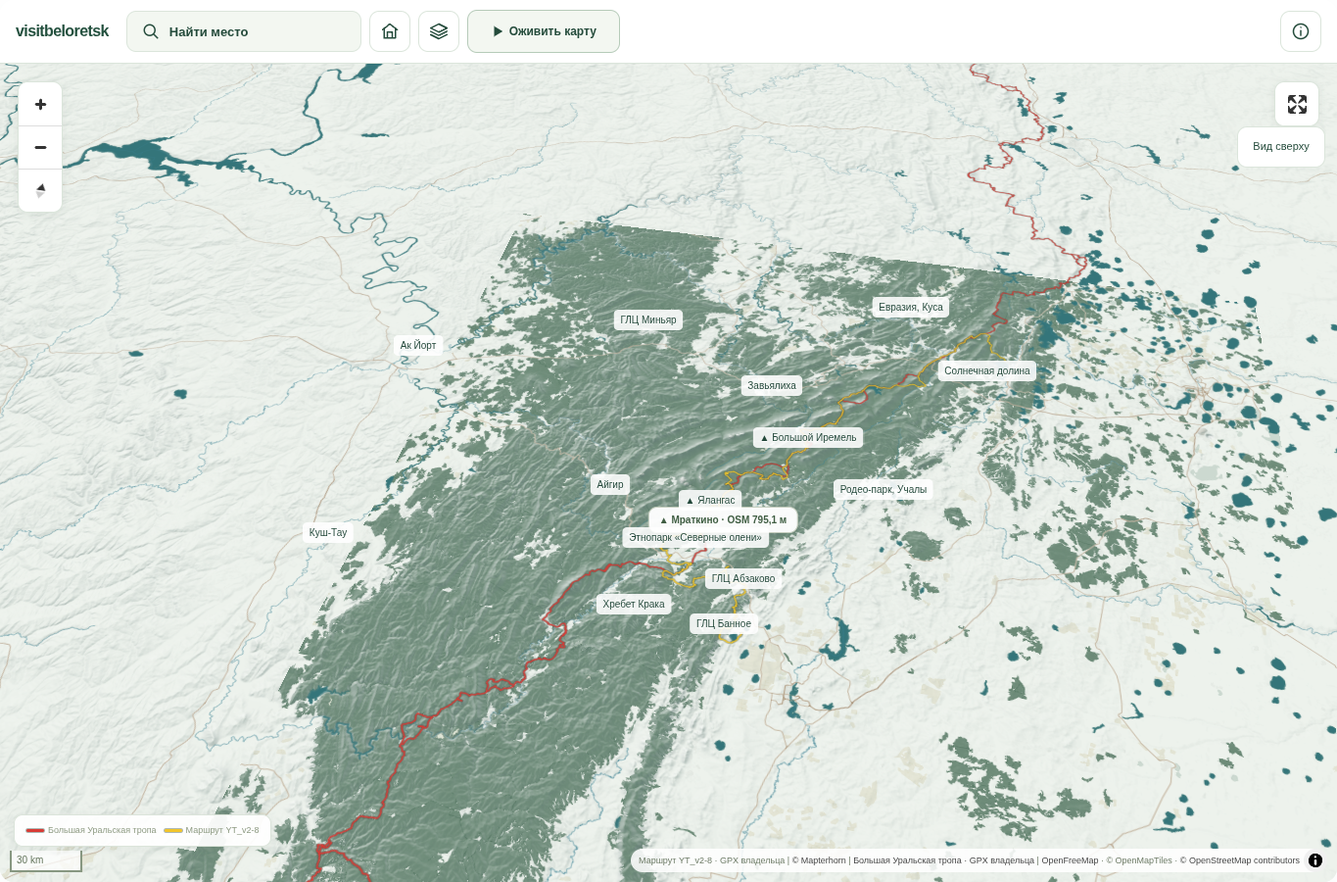
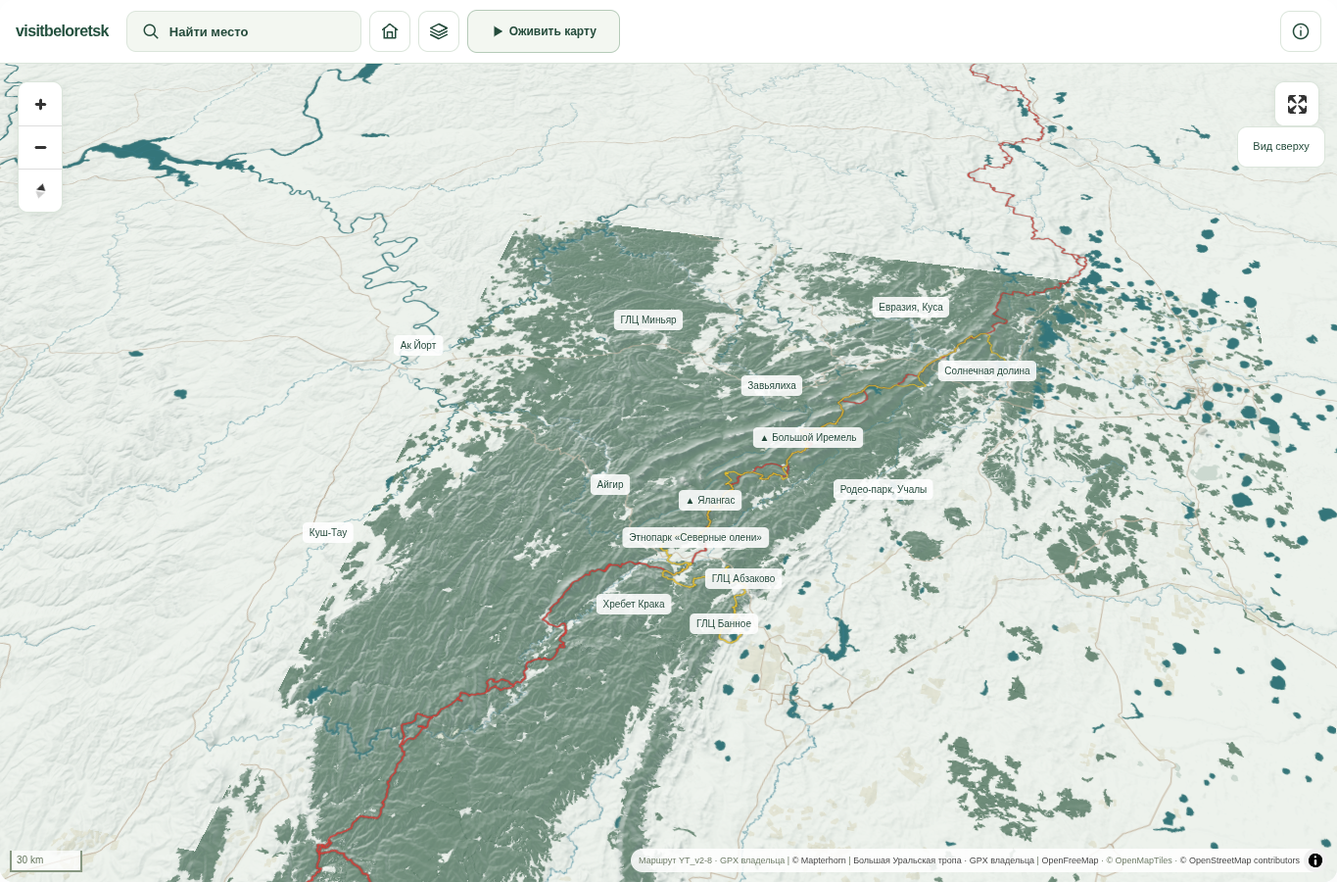
Reveal route names on click and resort labels at close zoom

Changed region(s): [[0.0, 0.9022, 0.2154, 0.9644], [0.4615, 0.56, 0.6154, 0.6222]]

diff --git a/src/region/controller.js b/src/region/controller.js
@@ -3,7 +3,7 @@ import {EMPTY} from '../map-data.js';
 import {resortFacilities} from './style.js';
 import {HikingController,hikingArea} from './hiking.js';
 import {SkiAreaController} from './ski-area.js';
-import {decoratePistes,CATEGORIES} from './piste-catalog.js';
+import {decoratePistes} from './piste-catalog.js';
 import {visibleAreas} from './viewport.js';
 import {IntegrationBridge,readURLState} from './integration.js';
 import {LandscapeController} from '../landscape/controller.js';
@@ -13,8 +13,7 @@ import {placeVisible} from './passport.js';
 import {renderPassportContent} from './passport-cards.js';
 import {applyFilters,filterSnapshot} from './filters.js';
 import {PlaceGallery} from './gallery.js';
-import {visibleLegendKinds} from './legend.js';
-import {LongDistanceController,LONG_DISTANCE_ROUTES} from './long-distance.js';
+import {LongDistanceController} from './long-distance.js';
 import {MAP_ICONS} from '../map-icons.js';
 import {CAMERA_CONTROL} from '../map-interaction.js';
 import {KrakaController} from './kraka.js';
@@ -53,8 +52,7 @@ export class RegionController{
   h.$('[data-layer=forest]').closest('label').querySelector('span').textContent='Лес';
   h.$('[data-layer=contours]').closest('label').querySelector('span').textContent='Горизонтали';
   const status=document.createElement('p');status.className='map-status';status.hidden=true;status.setAttribute('role','status');status.textContent='Подгружаем детали…';h.$('.map-wrap').append(status);this.loadStatus=status;
-  const legend=h.$('.legend');legend.hidden=true;legend.replaceChildren();const heading=document.createElement('span');heading.className='legend-heading';heading.textContent='Сложность';legend.append(heading);
-  for(const [key,text] of [['novice','Лёгкая'],['easy','Средняя'],['intermediate','Сложная'],['expert','Экспертная']]){const item=document.createElement('span'),dot=document.createElement('i');dot.style.background=CATEGORIES[key].color;item.append(dot,document.createTextNode(text));legend.append(item);}h.$('.map-wrap').append(legend);
+  h.$('.legend').hidden=true;h.$('.legend').replaceChildren();
   const routes=document.createElement('section');routes.className='routes-panel';const card=document.createElement('div');card.className='route-card';routes.append(card);body.append(routes);this.routesPanel=routes;
   this.about();this.cameraButton();
   const details=document.createElement('details'),summary=document.createElement('summary');summary.textContent='Открыть свой GPX / GeoJSON';details.append(summary);const input=document.createElement('input');input.type='file';input.accept='.gpx,.geojson,.json';input.setAttribute('aria-label','Открыть GPX или GeoJSON');input.addEventListener('change',()=>this.importRoute(input.files?.[0]));details.append(input);h.$('dialog').append(details);
@@ -72,13 +70,8 @@ export class RegionController{
  }
  cameraButton(){const m=this.host.map,top=m?m.getPitch()<5:this.host.mode2D,b=this.host.$('[data-action=mode]');this.host.mode2D=top;b.textContent=top?'Наклонный вид':'Вид сверху';b.title=b.textContent;b.setAttribute('aria-label',b.textContent);b.setAttribute('aria-pressed',String(top));}
  cameraPadding(){const h=this.host,s=h.$('.sidebar');if(!this.cardOpen)return {top:0,bottom:0,left:0,right:0};return matchMedia('(max-width:760px)').matches?{top:12,left:12,right:12,bottom:Math.min(s.offsetHeight+20,h.$('.map-wrap').clientHeight*.48)}:{top:20,left:24,right:Math.min(s.offsetWidth+100,h.$('.map-wrap').clientWidth*.48),bottom:30};}
- refreshLegend(){
-  const h=this.host,m=h.map;if(!m?.getLayer('snow'))return;const kinds=visibleLegendKinds(m),key=kinds.join(',');if(this.legendKey===key)return;this.legendKey=key;
-  const legend=h.$('.legend');legend.replaceChildren();legend.hidden=!kinds.length;
-  if(kinds.includes('ski')){const heading=document.createElement('span');heading.className='legend-heading';heading.textContent='Сложность трасс';legend.append(heading);for(const [k,t] of [['novice','Лёгкая'],['easy','Средняя'],['intermediate','Сложная'],['expert','Экспертная']]){const item=document.createElement('span'),dot=document.createElement('i');dot.style.background=CATEGORIES[k].color;item.append(dot,document.createTextNode(t));legend.append(item);}}
-  for(const [k,t,color] of [['hiking','Пеший маршрут','#42765c'],['nordic','Беговые лыжи','#9c5f26']])if(kinds.includes(k)){const item=document.createElement('span'),dot=document.createElement('i');dot.style.background=color;item.append(dot,document.createTextNode(t));legend.append(item);}
-  for(const route of LONG_DISTANCE_ROUTES)if(kinds.includes('long-distance:'+route.id)){const item=document.createElement('span'),line=document.createElement('i');line.className='legend-route-line';line.style.background=route.color;item.append(line,document.createTextNode(route.name));legend.append(item);}
- }
+ // Route names belong to the clicked feature; keep the former bottom strip empty.
+ refreshLegend(){const legend=this.host.$('.legend');if(legend){legend.hidden=true;legend.replaceChildren();}}
  applySeason(){const m=this.host.map;if(!m?.getLayer('snow'))return;m.setPaintProperty('snow','background-color',this.season==='summer'?'#d3d8bd':'#edf2ec');if(m.getLayer('region-surfaces'))m.setPaintProperty('region-surfaces','fill-opacity',this.season==='summer'?.72:.48);this.landscape.scene?.setSeason(this.season);}
  setupSearch(){const h=this.host,p=document.createElement('section');p.className='place-search';p.hidden=true;const input=document.createElement('input');input.type='search';input.placeholder='Название места';input.setAttribute('aria-label','Поиск по названию');const list=document.createElement('div');list.className='search-results';const render=()=>{list.replaceChildren();for(const place of [CITY,...PLACES].filter(p=>p.coordinates&&placeVisible(p,this.filters)&&(p.name+' '+(p.address||'')).toLocaleLowerCase('ru').includes(input.value.toLocaleLowerCase('ru')))){const b=this.button(place.name,place.name,()=>{p.hidden=true;this.searchToggle.setAttribute('aria-expanded','false');this.choose(place.id);});list.append(b);}};input.addEventListener('input',render);p.append(input,list);h.$('.shell').append(p);this.searchPanel=p;this.searchInput=input;this.renderSearch=render;render();}
  about(){this.host.$('dialog').innerHTML=`<header><h2>О карте</h2><button type="button" data-action="close-dialog" aria-label="Закрыть">×</button></header>
@@ -87,7 +80,7 @@ export class RegionController{
   <p>Абзаково: категории по <a href="https://abzakovo.com/scheme/" target="_blank" rel="noopener">официальной схеме</a>, проверенной 23.10.2026; дата выпуска не указана. №1, 7, 12 — синие; №2–4 — чёрные; №5, 8, 11, 13 — красные; №9, 10 — зелёные. Предварительный список задания с ней расходится. Официальный сайт описывает 10 трасс и 13 км, схема содержит другую нумерацию; причина различий не установлена. Спуск №6 на схеме отсутствует; оранжевая цифра 6 относится к подъёмнику.</p>
   <p>Мраткино: цвета по таблице схемы из задания владельца, официальная классификация не подтверждена. Фотография схемы не приложена. У Ю3 конфликт name=Ю3 и ref=Ю2. Ю5 и спорная линия фрирайда не отображаются. С1 показана без катающихся и с молодыми елями по прежнему описанию владельца; актуальный режим работы неизвестен. Кресла трёхместные по описанию владельца, в OSM указано четыре места — требуется сверка.</p>
   <p>Пешие треки Малиновой и Ялангаса построены по сети OSM и требуют проверки на местности. Они не подтверждают разрешение прохода. Для Ямантау и Малого Ямантау действуют ограничения заповедника. Собственные файлы GPX / GeoJSON открываются локально и не отправляются на сервер.</p>
-  <p>Большие маршруты GPX: Большая Уральская тропа показана красным, YT_v2-8 — жёлтым. Все участки перенесены из файлов владельца без соединения разрывов. БУТ содержит ветки; суммарная длина не означает длину единой прогулки. Полный охват доступен в слоях кнопкой «Целиком».</p>
+  <p>Большие маршруты GPX: Большая Уральская тропа показана красным, YT_v2-8 — жёлтым. Все участки перенесены из файлов владельца без соединения разрывов. БУТ содержит ветки; суммарная длина не означает длину единой прогулки. Название открывается нажатием на линию. Полный охват доступен в слоях кнопкой «Целиком».</p>
   <h3>Управление</h3><p>Перетаскивание — перемещение; правая кнопка мыши — поворот и наклон; колесо — масштаб. На телефоне используйте два пальца. Кнопка 2D / 3D меняет наклон, компас сбрасывает поворот. Статичный лес, сооружения и трассы появляются автоматически. «Оживить карту» включает движение и объём зданий; выбор сохраняется между местами. При уменьшении движения в системе запуск требует явного нажатия. Общий лес основан на полигонах wood OpenFreeMap; неизвестный тип показан условной смесью, около Мраткино/Абзаково сосны — художественная настройка. Позиции отдельных деревьев условны. Городские объекты и киоски представлены маркерами и карточками. «Карта оживает» включает также объёмную застройку по контурам OpenMapTiles; при отсутствии высоты используется условная высота 6 м. Наклон камеры доступен до 85°. Большой Крака: А и Б перенесены из кода владельца; отдельный трек БЮТ ведёт к прежней точке, путь к новой Б не построен. Штампы перенесены из исходного состава проекта и не показывают текущие остатки.</p>
   <p>Этнопарк: чум, ограда и 20 оленей — условная 3D-композиция по описанию владельца, а не точная схема участка.</p><h3>Источники</h3><p>© <a href="https://www.openstreetmap.org/copyright" target="_blank" rel="noopener">OpenStreetMap contributors</a>, ODbL 1.0 · <a href="https://openfreemap.org" target="_blank" rel="noopener">OpenFreeMap</a> / OpenMapTiles · <a href="https://mapterhorn.com/attribution" target="_blank" rel="noopener">Mapterhorn, источники рельефа</a>. Преувеличение высот 1. Автономный рельеф: Copernicus DEM GLO-30 (около 30 м), © DLR e.V. 2010–2014 / Airbus Defence and Space GmbH 2014–2018, предоставлен ЕС и ESA. MapLibre GL JS — BSD-3-Clause.</p>`;}
  preset(){return presetFor(this.id);}
@@ -189,7 +182,7 @@ export class RegionController{
   for(const m of h.markers)m.regionalHidden=!h.resortActive;
   const contexts=this.visible.filter(id=>id==='mratkino'?h.resortLoaded:id==='abzakovo'?!!this.ski.data:this.hiking.datasets.has(id));contexts.sort((a,b)=>distanceKm(map.getCenter().toArray(),byId(a).coordinates)-distanceKm(map.getCenter().toArray(),byId(b).coordinates));
   const context=contexts.find(id=>!['mratkino','abzakovo'].includes(id)||distanceKm(map.getCenter().toArray(),byId(id).coordinates)<2.5)||null;if(this.context!==context){this.context=context;this.disposeScenes();}this.hiking.contextArea=['malinovaya','yalangas'].includes(context)?context:null;
-  h.updateLayers();this.refreshLegend();h.$('.legend').title='Обозначения видимых маршрутов';
+  h.updateLayers();this.refreshLegend();
   this.kraka.sync();this.catalog.sync();this.renderCard();this.landscape.sync();this.syncScene();this.layoutLabels();this.updateLoadStatus();
  }
  async toggleEffects(){this.effectsWanted=!this.effectsWanted;const map=this.host.map;
@@ -213,7 +206,7 @@ export class RegionController{
  resetMap(){
   const h=this.host,c=this.bridge.snapshot();this.initial={place:this.id,route:this.routeId,card:this.cardOpen,effects:this.effectsWanted,camera:c?{...c,center:[c.center.lng,c.center.lat]}:this.initial.camera};
   clearTimeout(this.settleTimer);this.cameraMoving=false;this.bootstrapped=false;this.legendKey=null;this.bridge.reset();this.landscape.disposeScene();this.disposeScenes();this.ski.dispose();this.ski.data=null;this.ski.promise=null;this.hiking.dispose();this.hiking.datasets.clear();this.hiking.boundMap=null;
-  this.kraka.reset();this.markers.forEach(m=>m.marker.remove());this.markers=[];h.markers.forEach(m=>m.marker.remove());h.markers=[];h.resortLoaded=false;this.resortPromise=null;this.context=null;this.pending.clear();this.retryAfter.clear();
+  this.longDistance.reset();this.kraka.reset();this.markers.forEach(m=>m.marker.remove());this.markers=[];h.markers.forEach(m=>m.marker.remove());h.markers=[];h.resortLoaded=false;this.resortPromise=null;this.context=null;this.pending.clear();this.retryAfter.clear();
  }
  dataError(error,message='Часть карты временно недоступна.') {if(error?.name==='AbortError')return;const h=this.host,note=h.$('.error-note');if(!note.hidden&&note.dataset.message===message)return;note.dataset.message=message;note.hidden=false;note.textContent=message;const retry=this.button('Повторить','Повторить загрузку объектов',()=>{note.hidden=true;this.retryAfter.clear();this.landscape.retry.clear();this.landscape.stats.error=null;this.sync();const area=hikingArea(this.id);if(area)this.request(area,()=>this.hiking.enter(this.id));else if(this.id==='abzakovo')this.request(this.id,()=>this.ski.ensure());else if(this.id==='mratkino')this.request(this.id,()=>this.ensureResort());});note.append(retry);this.bridge.event('error',{code:'DATA_UNAVAILABLE',message,recoverable:true});}
  addLabels(){
@@ -244,7 +237,7 @@ export class RegionController{
    if(this.stampAnchorFilter!==key){this.stampAnchorFilter=key;map.setFilter('stamp-geographic-anchors',['in',['get','id'],['literal',ids]]);}
   }
  }
- layers(){const h=this.host;if(!h.map?.getLayer('snow'))return;this.longDistance.sync();this.kraka.sync();h.map.setLayoutProperty('region-paths','visibility',h.$('[data-layer=paths]').checked?'visible':'none');this.ski.layers();this.catalog.layers();const forest=h.$('[data-layer=forest]').checked;this.landscape.scene?.setForest(forest);if(this.forestWanted!==forest){this.forestWanted=forest;this.landscape.redraw();}this.landscape.syncAnimation();this.layoutLabels();}
+ layers(){const h=this.host;if(!h.map?.getLayer('snow'))return;this.longDistance.sync();this.kraka.sync();h.map.setLayoutProperty('region-paths','visibility',h.$('[data-layer=paths]').checked?'visible':'none');this.ski.layers();this.catalog.layers();const forest=h.$('[data-layer=forest]').checked;this.landscape.scene?.setForest(forest);if(this.forestWanted!==forest){this.forestWanted=forest;this.landscape.redraw();}this.landscape.syncAnimation();this.layoutLabels();h.layoutLabels();}
  async importRoute(file){
   if(!file)return;const h=this.host,card=h.$('.route-card');card.replaceChildren();
   try{if(file.size>5*1024*1024)throw Error('Максимальный размер — 5 МБ');const {parseGPX,normalizeRoutes,routeMetrics,routeEndpoints}=await import('./routes.js');const text=await file.text(),data=/\.gpx$/i.test(file.name)?parseGPX(text):normalizeRoutes(JSON.parse(text)),metrics=routeMetrics(data);this.routeData=data;this.importActive=true;
@@ -252,5 +245,5 @@ export class RegionController{
    const show=this.button('Показать трек','Показать трек',()=>h.flyToFeatures(data.features,h.map.getBearing()));card.append(show);const remove=this.button('Убрать трек','Убрать трек',()=>{h.map.getSource('touring-routes').setData(EMPTY);h.map.getSource('route-stops').setData(EMPTY);this.routeData=null;this.importActive=false;this.showCard(false);card.replaceChildren();});card.append(remove);h.$('dialog').close();this.showCard(true);show.click();
   }catch(e){h.text(card,'Трек не открыт: '+e.message);this.importActive=true;this.showCard(true);}
  }
- dispose(){clearTimeout(this.settleTimer);clearTimeout(this.statusTimer);this.kraka.reset();this.gallery?.dispose();this.landscape.dispose();this.catalog.dispose();this.bridge.dispose();this.observer?.disconnect();this.hiking.dispose();this.ski.dispose();this.host.disposeLife();this.markers.forEach(m=>m.marker.remove());}
+ dispose(){clearTimeout(this.settleTimer);clearTimeout(this.statusTimer);this.longDistance.reset();this.kraka.reset();this.gallery?.dispose();this.landscape.dispose();this.catalog.dispose();this.bridge.dispose();this.observer?.disconnect();this.hiking.dispose();this.ski.dispose();this.host.disposeLife();this.markers.forEach(m=>m.marker.remove());}
 }

diff --git a/tests/route-discovery.spec.js b/tests/route-discovery.spec.js
@@ -1,0 +1,26 @@
+import {test,expect} from './tile-fixture.js';
+const app=p=>p.locator('mratkino-map');
+test('thin routes reveal names only on click, with no bottom strip on desktop or mobile',async({page})=>{
+ test.setTimeout(180000);const errors=[];page.on('pageerror',e=>errors.push(e.message));await page.emulateMedia({reducedMotion:'reduce'});await page.goto('/?place=all&effects=0');await expect(app(page)).toHaveAttribute('data-map-state','ready',{timeout:90000});
+ for(const [id,name,viewport] of [['gut','Большая Уральская тропа',{width:1365,height:900}],['yt','Маршрут YT_v2-8',{width:390,height:844}]]){
+  await page.setViewportSize(viewport);await app(page).evaluate(e=>{e.map.identity='same-map';e.map.jumpTo({center:[58.6,54.2],zoom:9,pitch:0,bearing:0});});
+  const locate=()=>app(page).evaluate((e,id)=>{const m=e.map,w=m.getContainer().clientWidth,h=m.getContainer().clientHeight,layer='long-distance-'+id+'-line';if(!m.isSourceLoaded('long-distance-'+id))return null;for(const f of m.queryRenderedFeatures({layers:[layer]}))for(const c of (f.geometry.type==='MultiLineString'?f.geometry.coordinates.flat():f.geometry.coordinates)){const p=m.project(c.slice(0,2));if(p.x<50||p.y<80||p.x>w-60||p.y>h-90)continue;const hits=m.queryRenderedFeatures([[p.x-2,p.y-2],[p.x+2,p.y+2]],{layers:[layer]});if(hits.length)return {x:p.x,y:p.y};}return null;},id);
+  await expect.poll(locate,{timeout:60000}).not.toBeNull();const p=await locate(),box=await page.locator('.maplibregl-canvas').boundingBox();await expect(page.locator('.route-name-popup')).toHaveCount(0);await page.mouse.click(box.x+p.x,box.y+p.y);await expect(page.locator('.long-route-popup')).toContainText(name);await expect(page.locator('.legend')).toBeHidden();
+  // A stationary sync must not dismiss the name; hiding that route must dismiss it.
+  await app(page).evaluate(e=>e.region.longDistance.sync());await expect(page.locator('.long-route-popup')).toContainText(name);await app(page).evaluate((e,id)=>{e.region.longDistance.visible[id]=false;e.region.longDistance.sync();},id);await expect(page.locator('.route-name-popup')).toHaveCount(0);await app(page).evaluate(e=>{e.region.longDistance.visible.gut=true;e.region.longDistance.sync();});expect(await app(page).evaluate(e=>e.map.identity)).toBe('same-map');
+ }
+ expect(errors).toEqual([]);
+});
+test('approaching either resort automatically reveals pistes and then close-up route labels',async({page})=>{
+ test.setTimeout(240000);const errors=[];page.on('pageerror',e=>errors.push(e.message));await page.setViewportSize({width:1365,height:900});await page.emulateMedia({reducedMotion:'reduce'});await page.goto('/?place=all&effects=0');await expect(app(page)).toHaveAttribute('data-map-state','ready',{timeout:90000});
+ for(const [id,center,layer,labels] of [['mratkino',[58.444,53.997],'trail-line','.route-label'],['abzakovo',[58.628,53.802],'abzakovo-trail-line','.abz-label']]){
+  // Pan/zoom the existing overview, without selecting a resort or opening a card.
+  await app(page).evaluate((e,center)=>{e.$('[data-layer=forest]').checked=false;e.region.layers();e.map.jumpTo({center,zoom:12,pitch:0,bearing:0});},center);
+  await expect.poll(()=>app(page).evaluate((e,id)=>id==='mratkino'?e.resortActive:e.region.ski.active,id),{timeout:60000}).toBe(true);expect(await app(page).evaluate((e,layer)=>e.map.getLayoutProperty(layer,'visibility'),layer)).toBe('visible');
+  await expect.poll(()=>page.locator(labels).evaluateAll(es=>es.filter(e=>getComputedStyle(e).visibility==='visible').length)).toBe(0);
+  await app(page).evaluate((e,center)=>e.map.jumpTo({center,zoom:14.7,pitch:0}),center);await expect.poll(()=>page.locator(labels).evaluateAll(es=>es.filter(e=>getComputedStyle(e).visibility==='visible').length),{timeout:60000}).toBeGreaterThan(0);await expect(page.locator('.sidebar')).toBeHidden();await expect(page.locator('.legend')).toBeHidden();
+  await app(page).evaluate(e=>{e.$('[data-layer=labels]').checked=false;e.region.layers();});await expect.poll(()=>page.locator(labels).evaluateAll(es=>es.filter(e=>getComputedStyle(e).visibility==='visible').length)).toBe(0);await app(page).evaluate(e=>{e.$('[data-layer=labels]').checked=true;e.region.layers();});
+  const label=page.locator(labels).filter({visible:true}).first();await label.click();await expect(page.locator('.sidebar')).toBeVisible();await expect(app(page)).toHaveAttribute('data-place',id);await page.getByRole('button',{name:'Закрыть карточку',exact:true}).click();
+ }
+ expect(errors).toEqual([]);
+});

diff --git a/src/region/ski-area.js b/src/region/ski-area.js
@@ -1,3 +1,4 @@
+import {LINE_LOD} from '../landscape/config.js';
 import {EMPTY,boundsFor} from '../map-data.js';
 import {classification,decoratePistes,pisteId,catalog} from './piste-catalog.js';
 
@@ -68,7 +69,7 @@ export class SkiAreaController{
   const trails=this.data.manifest.trailNumbers.map(n=>this.data.trails.features.filter(f=>f.properties.number===n).sort((a,b)=>b.properties.mappedLengthM-a.properties.mappedLengthM)[0]);
   for(const f of [...trails,...this.data.lifts.features]){if(f.geometry.type!=='LineString')continue;const lift=!!f.properties.tags.aerialway,points=f.geometry.coordinates,b=document.createElement('button');b.type='button';b.className='abz-label'+(lift?' abz-lift-label':'');b.textContent=lift?(f.properties.tags.aerialway==='chair_lift'?'КД ':'Б ')+f.properties.number:'№'+f.properties.number;b.setAttribute('aria-label',f.properties.name);if(!lift)b.style.setProperty('--trail-color',classification('abzakovo',f.properties).color);b.addEventListener('click',e=>{e.stopPropagation();lift?this.selectLift(f):this.selectTrail(f.properties.number);});const marker=new h.ml.Marker({element:b,anchor:'bottom',occludedOpacity:.2}).setLngLat(points[Math.floor(points.length/2)]).addTo(h.map);this.markers.push({marker,button:b,feature:f});}
  }
- layoutLabels(){const h=this.host;if(!h.map)return;const occupied=[],width=h.map.getContainer().clientWidth,height=h.map.getContainer().clientHeight,enabled=this.active&&h.$('[data-layer=labels]').checked;
+ layoutLabels(){const h=this.host;if(!h.map)return;const occupied=[],width=h.map.getContainer().clientWidth,height=h.map.getContainer().clientHeight,enabled=this.active&&h.map.getZoom()>=LINE_LOD.labels&&h.$('[data-layer=labels]').checked;
   for(const {marker,button,feature} of this.markers){const p=h.map.project(marker.getLngLat()),w=button.offsetWidth||40,r=[p.x-w/2,p.y-28,p.x+w/2,p.y+4],visible=enabled&&(!feature.properties.tags.aerialway||h.$('[data-layer=lifts]').checked)&&r[0]>8&&r[2]<width-45&&r[1]>60&&r[3]<height-85&&!occupied.some(a=>r[0]<a[2]+5&&r[2]>a[0]-5&&r[1]<a[3]+5&&r[3]>a[1]-5);button.style.visibility=visible?'visible':'hidden';button.tabIndex=visible?0:-1;if(visible)occupied.push(r);}
  }
  layers(){const h=this.host;if(!h.map)return;for(const id of ['abzakovo-piste-fill','abzakovo-trail-shadow','abzakovo-trail-casing','abzakovo-trail-line','abzakovo-boundary'])if(h.map.getLayer(id))h.map.setLayoutProperty(id,'visibility',this.active?'visible':'none');for(const id of ['abzakovo-lift-line','abzakovo-stations'])if(h.map.getLayer(id))h.map.setLayoutProperty(id,'visibility',this.active&&h.$('[data-layer=lifts]').checked?'visible':'none');this.scene?.setLayers({forest:h.$('[data-layer=forest]').checked,lifts:h.$('[data-layer=lifts]').checked});}

diff --git a/src/region/long-distance.js b/src/region/long-distance.js
@@ -25,9 +25,27 @@ export class LongDistanceController{
   parent.append(field);
  }
  sync(){
-  const map=this.host.map;if(!map)return;
+  const map=this.host.map;if(!map)return;this.bind();
+  if(this.popup?.isOpen()&&this.popupRoutes.some(id=>!this.region.filters.hiking||!this.visible[id]))this.popup.remove();
   for(const route of registry){const show=this.region.filters.hiking&&this.visible[route.id];this.checkboxes.get(route.id).checked=show;for(const id of [trailLayerId(route),'long-distance-'+route.id+'-casing'])if(map.getLayer(id)&&map.getLayoutProperty(id,'visibility')!==(show?'visible':'none'))map.setLayoutProperty(id,'visibility',show?'visible':'none');}
  }
+ bind(){
+  const map=this.host.map;if(this.boundMap===map)return;this.boundMap=map;
+  map.on('click',event=>{
+   const box=[[event.point.x-7,event.point.y-7],[event.point.x+7,event.point.y+7]];
+   // Local pistes and lifts retain their own detailed cards at crossings.
+   const local=['trail-line','lift-line','abzakovo-trail-line','abzakovo-lift-line','winter-catalog-line','hiking-route-line','kraka-but-line'].filter(id=>map.getLayer(id)&&map.getLayoutProperty(id,'visibility')!=='none');
+   if(local.length&&map.queryRenderedFeatures(box,{layers:local}).length){this.popup?.remove();return;}
+   const layers=registry.filter(r=>this.region.filters.hiking&&this.visible[r.id]).map(trailLayerId).filter(id=>map.getLayer(id));
+   if(!layers.length)return;
+   const hits=new Set(map.queryRenderedFeatures(box,{layers}).map(f=>f.layer.id));
+   const routes=registry.filter(r=>hits.has(trailLayerId(r)));if(!routes.length)return;
+   this.popup?.remove();const content=document.createElement('div');content.className='long-route-popup';
+   for(const route of routes){const name=document.createElement('p');name.textContent=route.name;name.style.borderLeftColor=route.color;content.append(name);}
+   this.popupRoutes=routes.map(r=>r.id);this.popup=new this.host.ml.Popup({closeButton:true,closeOnClick:true,closeOnMove:true,maxWidth:'260px',className:'route-name-popup'}).setLngLat(event.lngLat).setDOMContent(content).addTo(map);
+  });
+ }
+ reset(){this.popup?.remove();this.popup=null;this.boundMap=null;}
  fit(id){
   const route=registry.find(r=>r.id===id);if(!route||!this.host.map?.getLayer(trailLayerId(route)))return;
   this.visible[id]=true;if(!this.region.filters.hiking)this.region.setFilters({hiking:true});this.sync();this.region.showCard(false);this.region.layerPanel.hidden=true;this.region.layerButton.setAttribute('aria-expanded','false');

diff --git a/tests/long-distance.spec.js b/tests/long-distance.spec.js
@@ -7,7 +7,7 @@ test('both complete GPX sources start with the map, before terrain readiness, an
  for(const route of audit.routes){const data=await app(page).evaluate(async(e,id)=>{const d=await e.map.getSource('long-distance-'+id).getData();return {count:d.features.length,points:d.features.reduce((n,f)=>n+f.geometry.coordinates.length,0),endpoints:d.features.map(f=>[f.geometry.coordinates[0],f.geometry.coordinates.at(-1)])};},route.id);expect(data.count).toBe(route.segmentCount);expect(data.points).toBe(route.pointCount);expect(data.endpoints).toEqual(route.segments.map(s=>[s.first,s.last]));}
  try{expect(heldDEM).toBeGreaterThan(0);expect(await app(page).evaluate(e=>e.map.isSourceLoaded('dem'))).toBe(false);}finally{release();}await expect(app(page)).toHaveAttribute('data-map-state','ready',{timeout:90000});
  await expect.poll(()=>app(page).evaluate(e=>[...new Set(e.map.queryRenderedFeatures({layers:['long-distance-gut-line','long-distance-yt-line']}).map(f=>f.properties.routeId))].sort()),{timeout:60000}).toEqual(['gut','yt']);
- expect(await app(page).evaluate(e=>e.map.getPaintProperty('long-distance-gut-line','line-color'))).toBe('#d83b35');expect(await app(page).evaluate(e=>e.map.getPaintProperty('long-distance-yt-line','line-color'))).toBe('#f2c52b');await expect(page.locator('.legend')).toContainText('Большая Уральская тропа');await expect(page.locator('.legend')).toContainText('Маршрут YT_v2-8');
+ expect(await app(page).evaluate(e=>e.map.getPaintProperty('long-distance-gut-line','line-color'))).toBe('#d83b35');expect(await app(page).evaluate(e=>e.map.getPaintProperty('long-distance-yt-line','line-color'))).toBe('#f2c52b');await expect(page.locator('.legend')).toBeHidden();await expect(page.locator('.route-name-popup')).toHaveCount(0);
  await page.waitForFunction(()=>document.querySelector('mratkino-map').map.areTilesLoaded(),null,{timeout:90000});await page.screenshot({path:'renders/unified-long-routes.png',timeout:60000});expect(errors).toEqual([]);
 });
 test('whole-route controls fit both entire tracks on mobile and desktop without replacing the map; filters restore correctly',async({page})=>{

diff --git a/src/mratkino-map.js b/src/mratkino-map.js
@@ -5,6 +5,7 @@ import explorerCSS from './explorer.css?inline';
 import themeCSS from './map-theme.css?inline';
 import { SUMMIT, EXPECTED, boundsFor, coordinates, slopeCamera, createStyle, EMPTY } from './map-data.js';
 
+import {LINE_LOD} from './landscape/config.js';
 import {configureCameraControl,cameraLayoutKey} from './map-interaction.js';
 import {RegionController} from './region/controller.js';
 import {createRegionalStyle} from './region/style.js';
@@ -222,7 +223,7 @@ class MratkinoMap extends HTMLElement {
    const r={left:point.x-w/2-5,right:point.x+w/2+5,top:point.y-h-5,bottom:point.y+8};
    const outside=r.left<8||r.right>width-54||r.top<50||r.bottom>height-30;
    const overlaps=occupied.some(b=>r.left<b.right&&r.right>b.left&&r.top<b.bottom&&r.bottom>b.top);
-   const visible=(!this.region||item.id!=='summit'||this.$('[data-layer=labels]').checked)&&!item.regionalHidden&&!outside&&!overlaps;item.element.style.visibility=visible?'visible':'hidden';item.element.tabIndex=visible&&item.id!=='summit'?0:-1;
+   const visible=(!this.region||this.$('[data-layer=labels]').checked&&this.map.getZoom()>=LINE_LOD.labels)&&!item.regionalHidden&&!outside&&!overlaps;item.element.style.visibility=visible?'visible':'hidden';item.element.tabIndex=visible&&item.id!=='summit'?0:-1;
    if(visible)occupied.push(r);
   }
  }

diff --git a/src/map-theme.css b/src/map-theme.css
@@ -44,4 +44,6 @@
 .explorer .long-route-row input{margin:0}
 .explorer .long-route-row button{align-self:center;min-height:34px;padding:7px 9px;border:1px solid var(--vb-border);border-radius:8px;background:var(--vb-soft);font-size:11px;color:var(--vb-ink)}
 .explorer .long-route-row small{grid-column:1/-1;color:var(--vb-muted);font-size:10px;line-height:1.5}
-.explorer .legend i.legend-route-line{width:18px;height:3px;border-radius:2px;box-shadow:0 0 0 1px #34514566}
+.explorer .route-name-popup .maplibregl-popup-content{padding:14px 28px 14px 14px;border:1px solid var(--vb-border);border-radius:var(--vb-radius);box-shadow:var(--vb-shadow);font:13px/1.5 Arial,sans-serif;color:var(--vb-ink)}
+.explorer .long-route-popup p{margin:4px 0;padding-left:9px;border-left:3px solid}
+.explorer .route-name-popup .maplibregl-popup-close-button{min-width:28px;min-height:28px;color:var(--vb-ink);font-size:20px}

diff --git a/docs/ROUTE-DISCOVERY.md b/docs/ROUTE-DISCOVERY.md
@@ -1,0 +1,9 @@
+# Названия по нажатию и детализация ГЛЦ — 24.10.2026
+
+Обновляется одна общая карта: https://poletavkinvladislav2025-dot.github.io/mratkino-3d-map/preview/unified/?place=all. Вставка Tilda и адрес не меняются.
+
+Нижняя полоса с цветами, категориями и названиями убрана. Обе полные линии GPX сохраняют прежние красный/жёлтый цвета, толщину, координаты и загрузку в начальном стиле. Нажатие в пределах 7 экранных пикселей от линии открывает небольшое окно с названием; если в точке видны оба трека, показаны оба названия. Название не появляется от наведения. Окно закрывается при перемещении карты, следующем нажатии, крестиком или отключении соответствующего маршрута. Обычное обновление неподвижной сцены его не закрывает. На пересечениях горнолыжные трассы, подъёмники и существующие локальные пешие маршруты сохраняют приоритет своих карточек. Названия источников в обязательной атрибуции сохранены.
+
+Существующая автоматическая загрузка Мраткино/Абзаково по области просмотра сохранена. Линии трасс появляются при приближении; номера/названия непосредственно на склонах показываются с zoom 13.4. Для обоих курортов теперь одинаково соблюдается флажок «Подписи». Нажатие на локальную трассу открывает существующую карточку. Для этого не нужно выбирать ГЛЦ в поиске или включать «Оживить карту».
+
+Проверки: `npm run test:unit`, `npm run build`; фокусные браузерные сценарии `tests/long-distance.spec.js` и `tests/route-discovery.spec.js`. Используются реальные GPX и реальные тайлы через существующий relay. Геометрия и полный охват маршрутов проверяются прежними тестами. Новые сценарии проверяют реальные нажатия по красной/жёлтой линии на desktop/mobile, отсутствие легенды, сохранение popup при sync и закрытие при отключении, автоматическое появление трасс и подписей обоих ГЛЦ без выбора места, отключение подписей и карточку по нажатию. Прямая живая страница Tilda не редактировалась.

diff --git a/docs/LONG-DISTANCE-ROUTES.md b/docs/LONG-DISTANCE-ROUTES.md
@@ -19,7 +19,7 @@
 
 Слои → «Маршруты GPX»: индивидуальный флажок и кнопка «Целиком» у каждой линии. Кнопка закрывает карточку и меню, показывает весь трек, сохраняет один экземпляр карты и включает маршрут, если он был скрыт. Минимальный zoom общей карты и протокола камеры снижен с 5 до 3, чтобы весь Урал помещался в том числе на телефоне. Начальный региональный вид не заменён обзором всего Урала. Общий фильтр «Туристические маршруты» управляет этими линиями; кнопка полного просмотра включает его обратно при необходимости.
 
-Толщина около 1.4 px при zoom 8, 1.1 px при zoom 3 и до 2.4 px при сильном приближении. Тонкий контур помогает различать красный и жёлтый на снеге и лесном фоне. Цвета и подписи появляются в легенде по реально видимым линиям. Легенда маршрутов не означает категорию сложности горнолыжных трасс.
+Толщина около 1.4 px при zoom 8, 1.1 px при zoom 3 и до 2.4 px при сильном приближении. Тонкий контур помогает различать красный и жёлтый на снеге и лесном фоне. По последующему пожеланию владельца нижняя легенда убрана: название открывается нажатием на линию. Подробности — `ROUTE-DISCOVERY.md`.
 
 GeoJSON лежат отдельно от начального JS: `public/region/long-distance/gut.geojson` (730 216 Б) и `yt.geojson` (198 503 Б), всего 928 719 Б до HTTP-сжатия. Разбор GPX не выполняется в браузере. Неизменившиеся маршруты не пересылаются повторно при обновлениях сцены.
 
